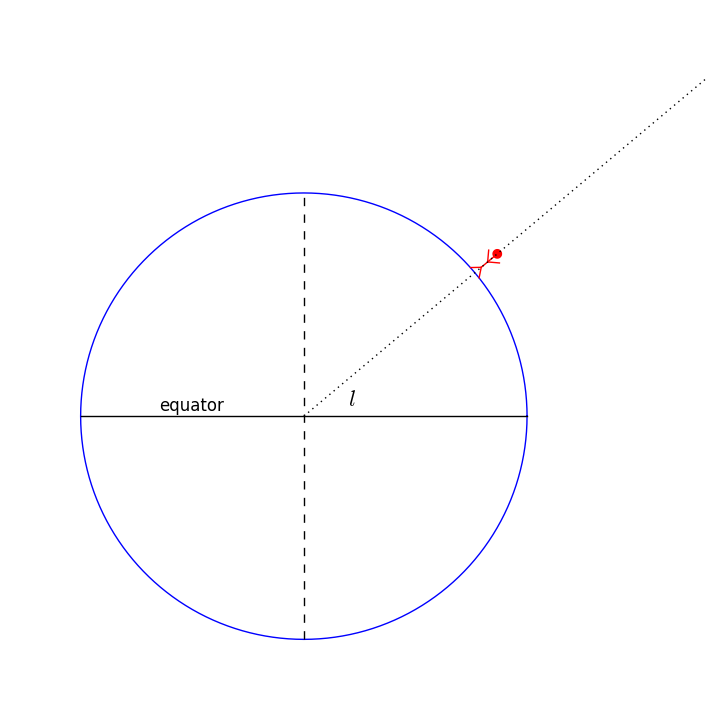
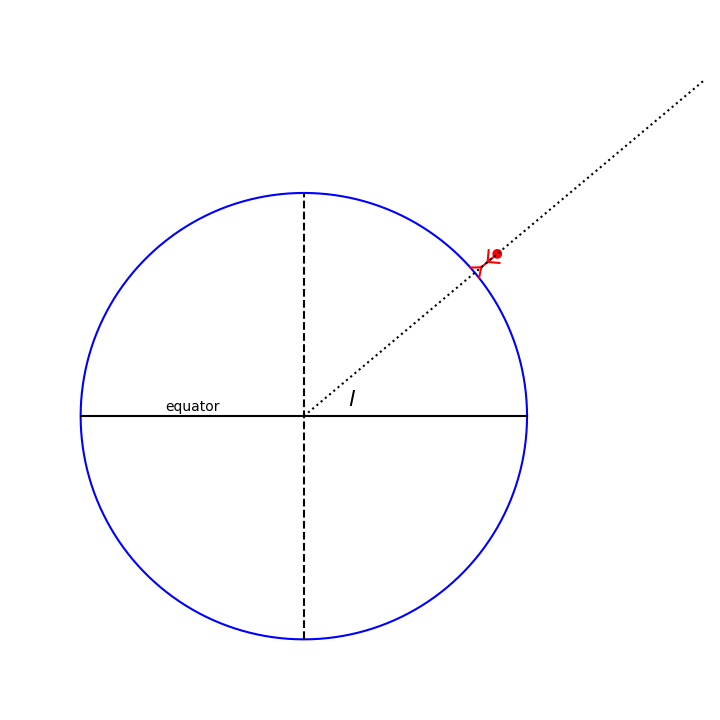
more updating

diff --git a/solar_system_motion/latitude_fig/latitude.py b/solar_system_motion/latitude_fig/latitude.py
@@ -2,89 +2,81 @@
 
 import anim_solvers.stick_figure as sf
 import numpy as np
-import matplotlib.pylab as plt
+import matplotlib.pyplot as plt
 
 def doit():
+
+    fig, ax = plt.subplots()
 
     # latitude
     lat = 40
 
-    transparent = True
-    
+    transparent = False
+
     # scalings for the person and earth
     L = 1.5
     R = 10
 
-    theta = np.radians(np.arange(0,361))
+    theta = np.radians(np.arange(0, 361))
 
     # draw a circle
-    plt.plot(R*np.cos(theta), R*np.sin(theta), c="b")
+    ax.plot(R*np.cos(theta), R*np.sin(theta), c="b")
 
     # draw equator and rotation axis
-    plt.plot([-R, R], [0,0], c="k")
-    plt.plot([0,0], [-R, R], c="k", ls="--")
+    ax.plot([-R, R], [0, 0], c="k")
+    ax.plot([0, 0], [-R, R], c="k", ls="--")
 
-    plt.text(-0.5*R, 0.25, "equator", horizontalalignment="center")
-    
+    ax.text(-0.5*R, 0.25, "equator", horizontalalignment="center")
+
     # draw a person
-    center = ( (R + 0.5*L)*np.cos(np.radians(lat)),
-               (R + 0.5*L)*np.sin(np.radians(lat)) )
-    sf.draw_person(center, L, np.radians(lat - 90), color="r")
+    center = ((R + 0.5*L)*np.cos(np.radians(lat)),
+              (R + 0.5*L)*np.sin(np.radians(lat)))
 
+    sf.draw_person(center, L, np.radians(lat - 90), color="r", ax=ax)
 
     # draw the latitude angle line to zenith
     npts = 10
     x = np.arange(npts)*2*R/npts
     y = center[1]/center[0] * x
 
-    plt.plot(x, y, "k", ls=":")
+    ax.plot(x, y, "k", ls=":")
 
-    plt.text(0.2*R, 0.5*0.2*R*np.sin(lat), r"$l$",
-             fontsize=16, verticalalignment="center")
-    
-    plt.axis("off")
-    
-    ax = plt.gca()
+    ax.text(0.2*R, 0.5*0.2*R*np.sin(lat), r"$l$",
+            fontsize=16, verticalalignment="center")
+
+    ax.axis("off")
     ax.set_aspect("equal", "datalim")
-        
+
     plt.subplots_adjust(left=0.05, right=0.98, bottom=0.05, top=0.98)
-    plt.axis([-1.2*R, 1.8*R, -1.2*R, 1.8*R])
+    ax.axis([-1.2*R, 1.8*R, -1.2*R, 1.8*R])
 
-    f = plt.gcf()
-    f.set_size_inches(7.2, 7.2)
-                            
-    plt.savefig("latitude1.png", transparent=transparent)
+    fig.set_size_inches(7.2, 7.2)
 
-
+    fig.savefig("latitude1.png", transparent=transparent)
 
     # add the zenith label
-    plt.text(x[0.7*npts], y[0.7*npts], "points to zenith",
-             horizontalalignment="center", verticalalignment="center",
-             rotation = lat)
+    ax.text(x[int(0.7*npts)], y[int(0.7*npts)], "points to zenith",
+            horizontalalignment="center", verticalalignment="center",
+            rotation = lat)
 
-    plt.savefig("latitude2.png", transparent=transparent)
-
+    fig.savefig("latitude2.png", transparent=transparent)
 
     # draw the local horizon -- it passed through center, perpendicular
     # to lat
-    scenter = ( R*np.cos(np.radians(lat)),
-                R*np.sin(np.radians(lat)) )
+    scenter = (R*np.cos(np.radians(lat)),
+               R*np.sin(np.radians(lat)))
 
     p = (scenter[0] + R*np.cos(np.radians(90+lat)),
-         scenter[1] + R*np.sin(np.radians(90+lat)) )
+         scenter[1] + R*np.sin(np.radians(90+lat)))
 
     yh = (p[1] - scenter[1])/(p[0] - scenter[0])*(x - scenter[0]) + scenter[1]
 
-    plt.plot(x, yh, color="c")
-    plt.text(x[0.7*npts], yh[0.7*npts], "local horizon",
-             rotation=270+lat, color="c")             
+    ax.plot(x, yh, color="c")
+    ax.text(x[int(0.7*npts)], yh[int(0.7*npts)], "local horizon",
+            rotation=270+lat, color="c")
 
-    
-    plt.savefig("latitude3.png", transparent=transparent)
-    
-    
-    
+    fig.savefig("latitude3.png", transparent=transparent)
+
+
 if __name__ == "__main__":
     doit()
-
-    
